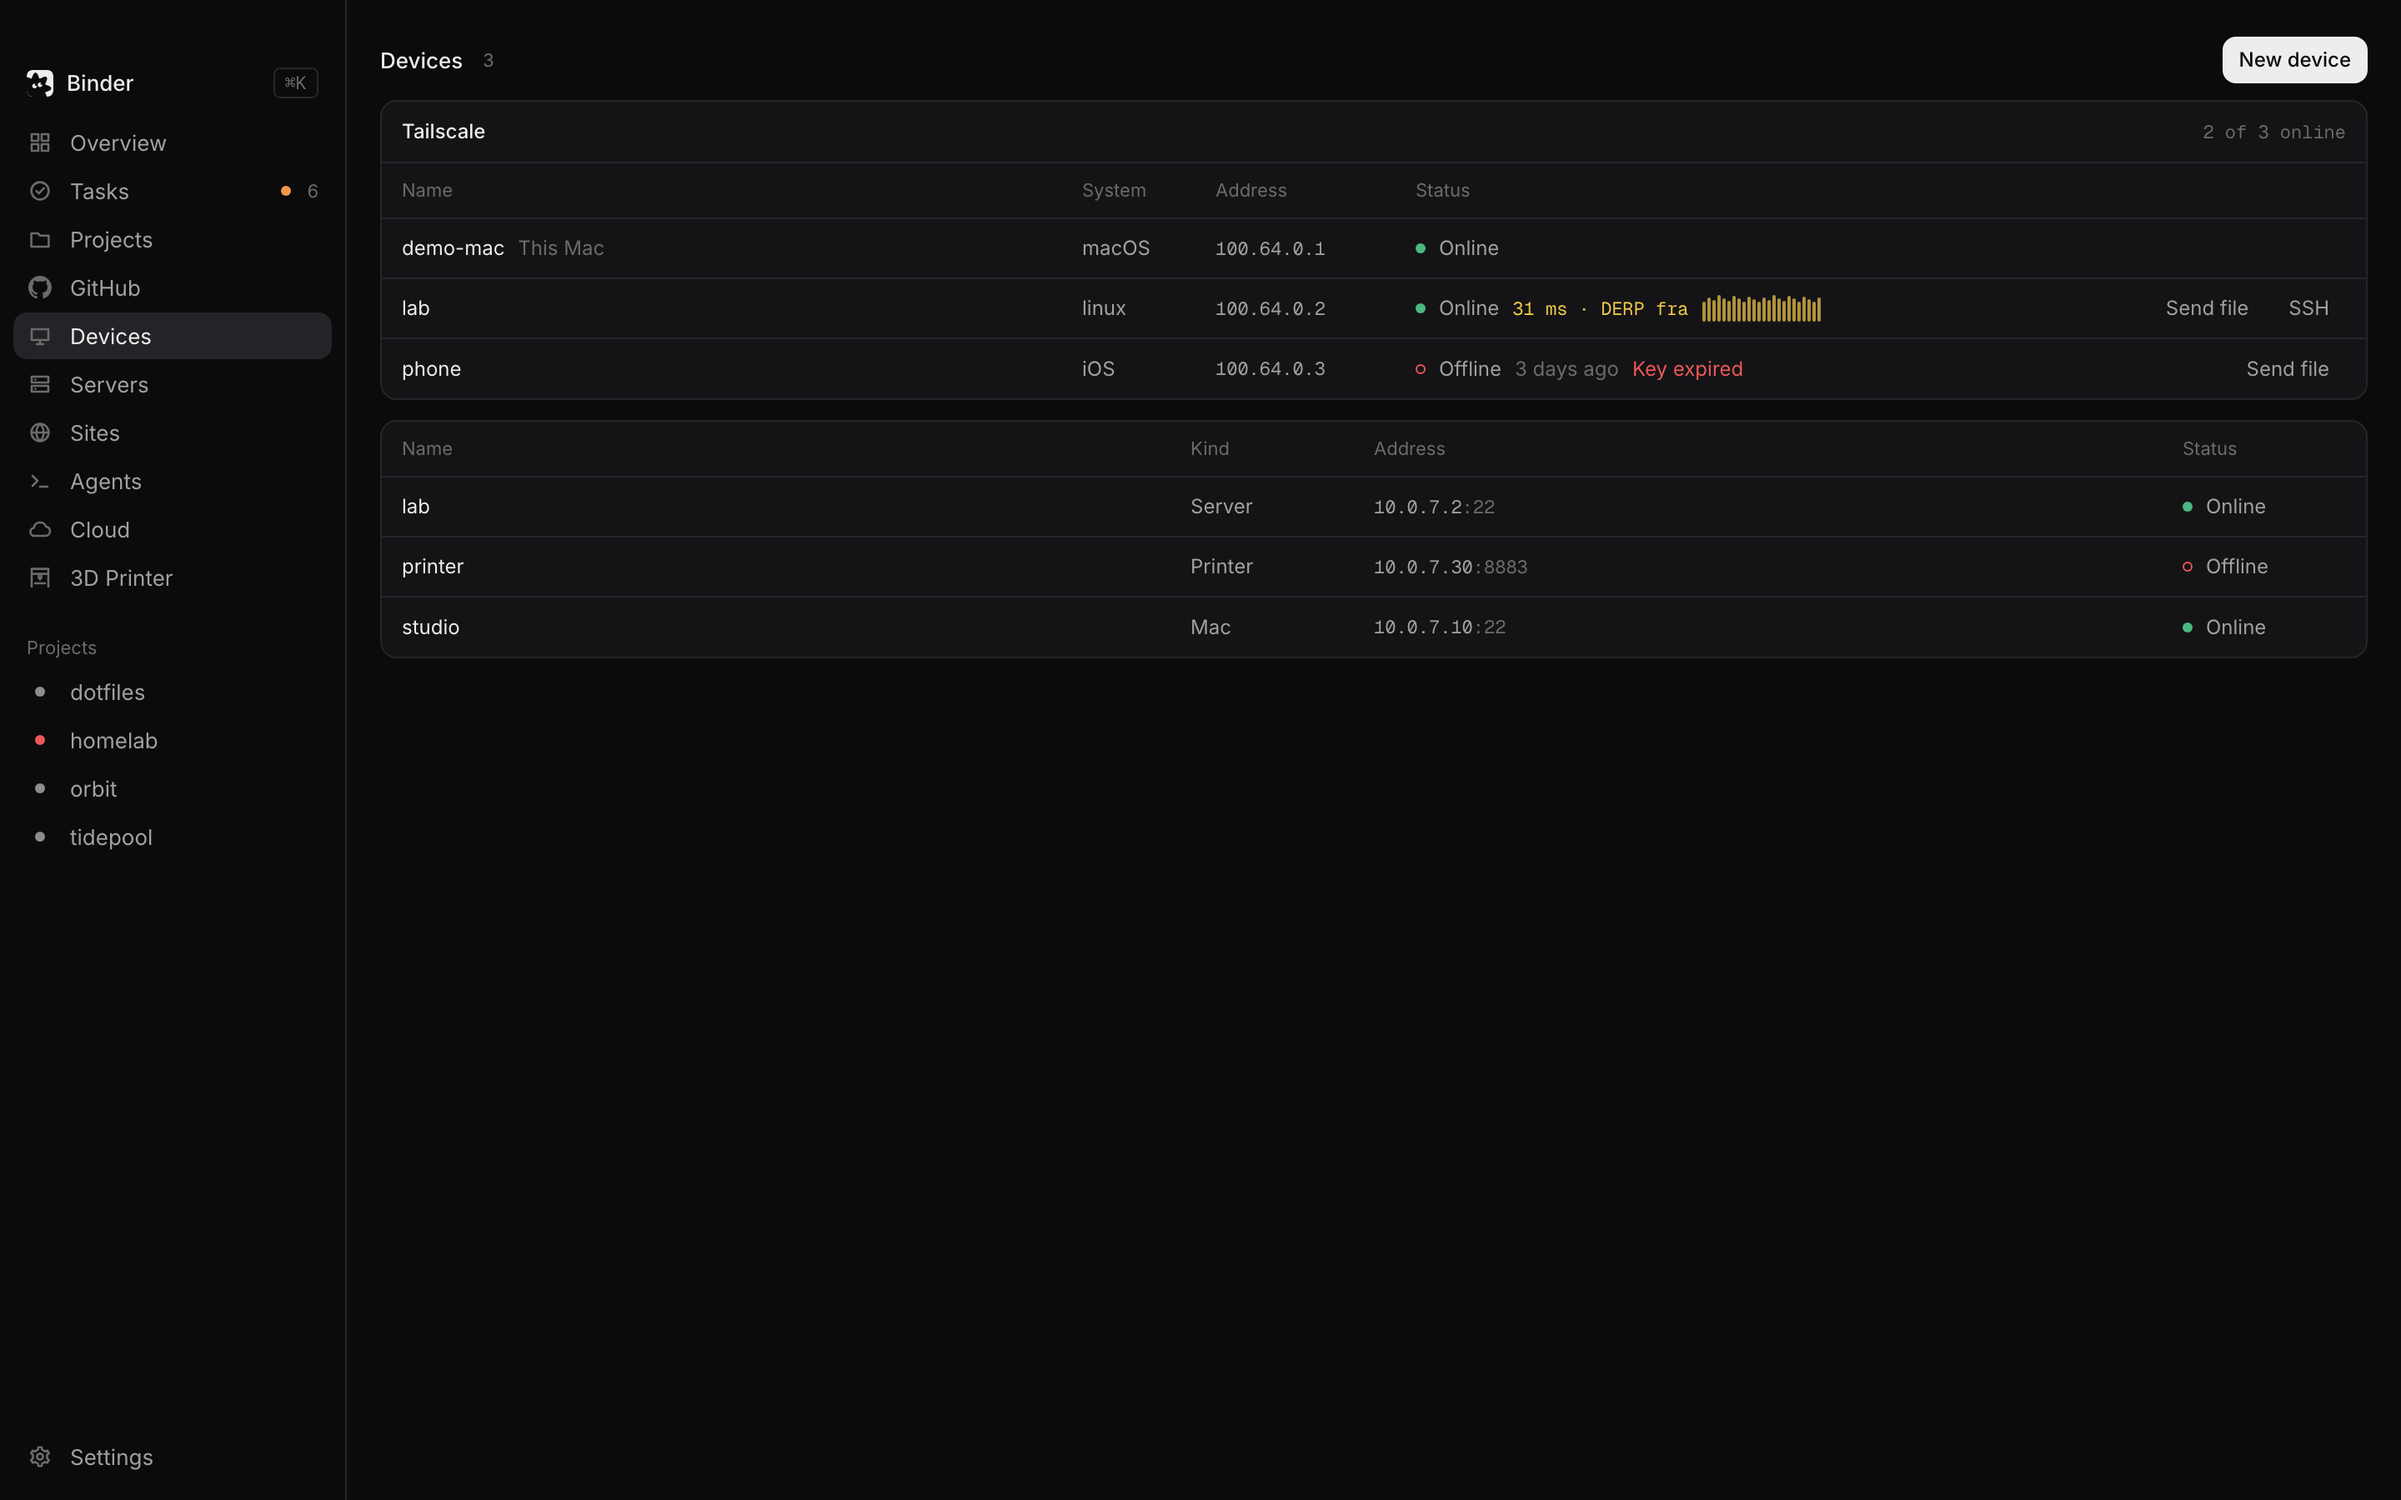
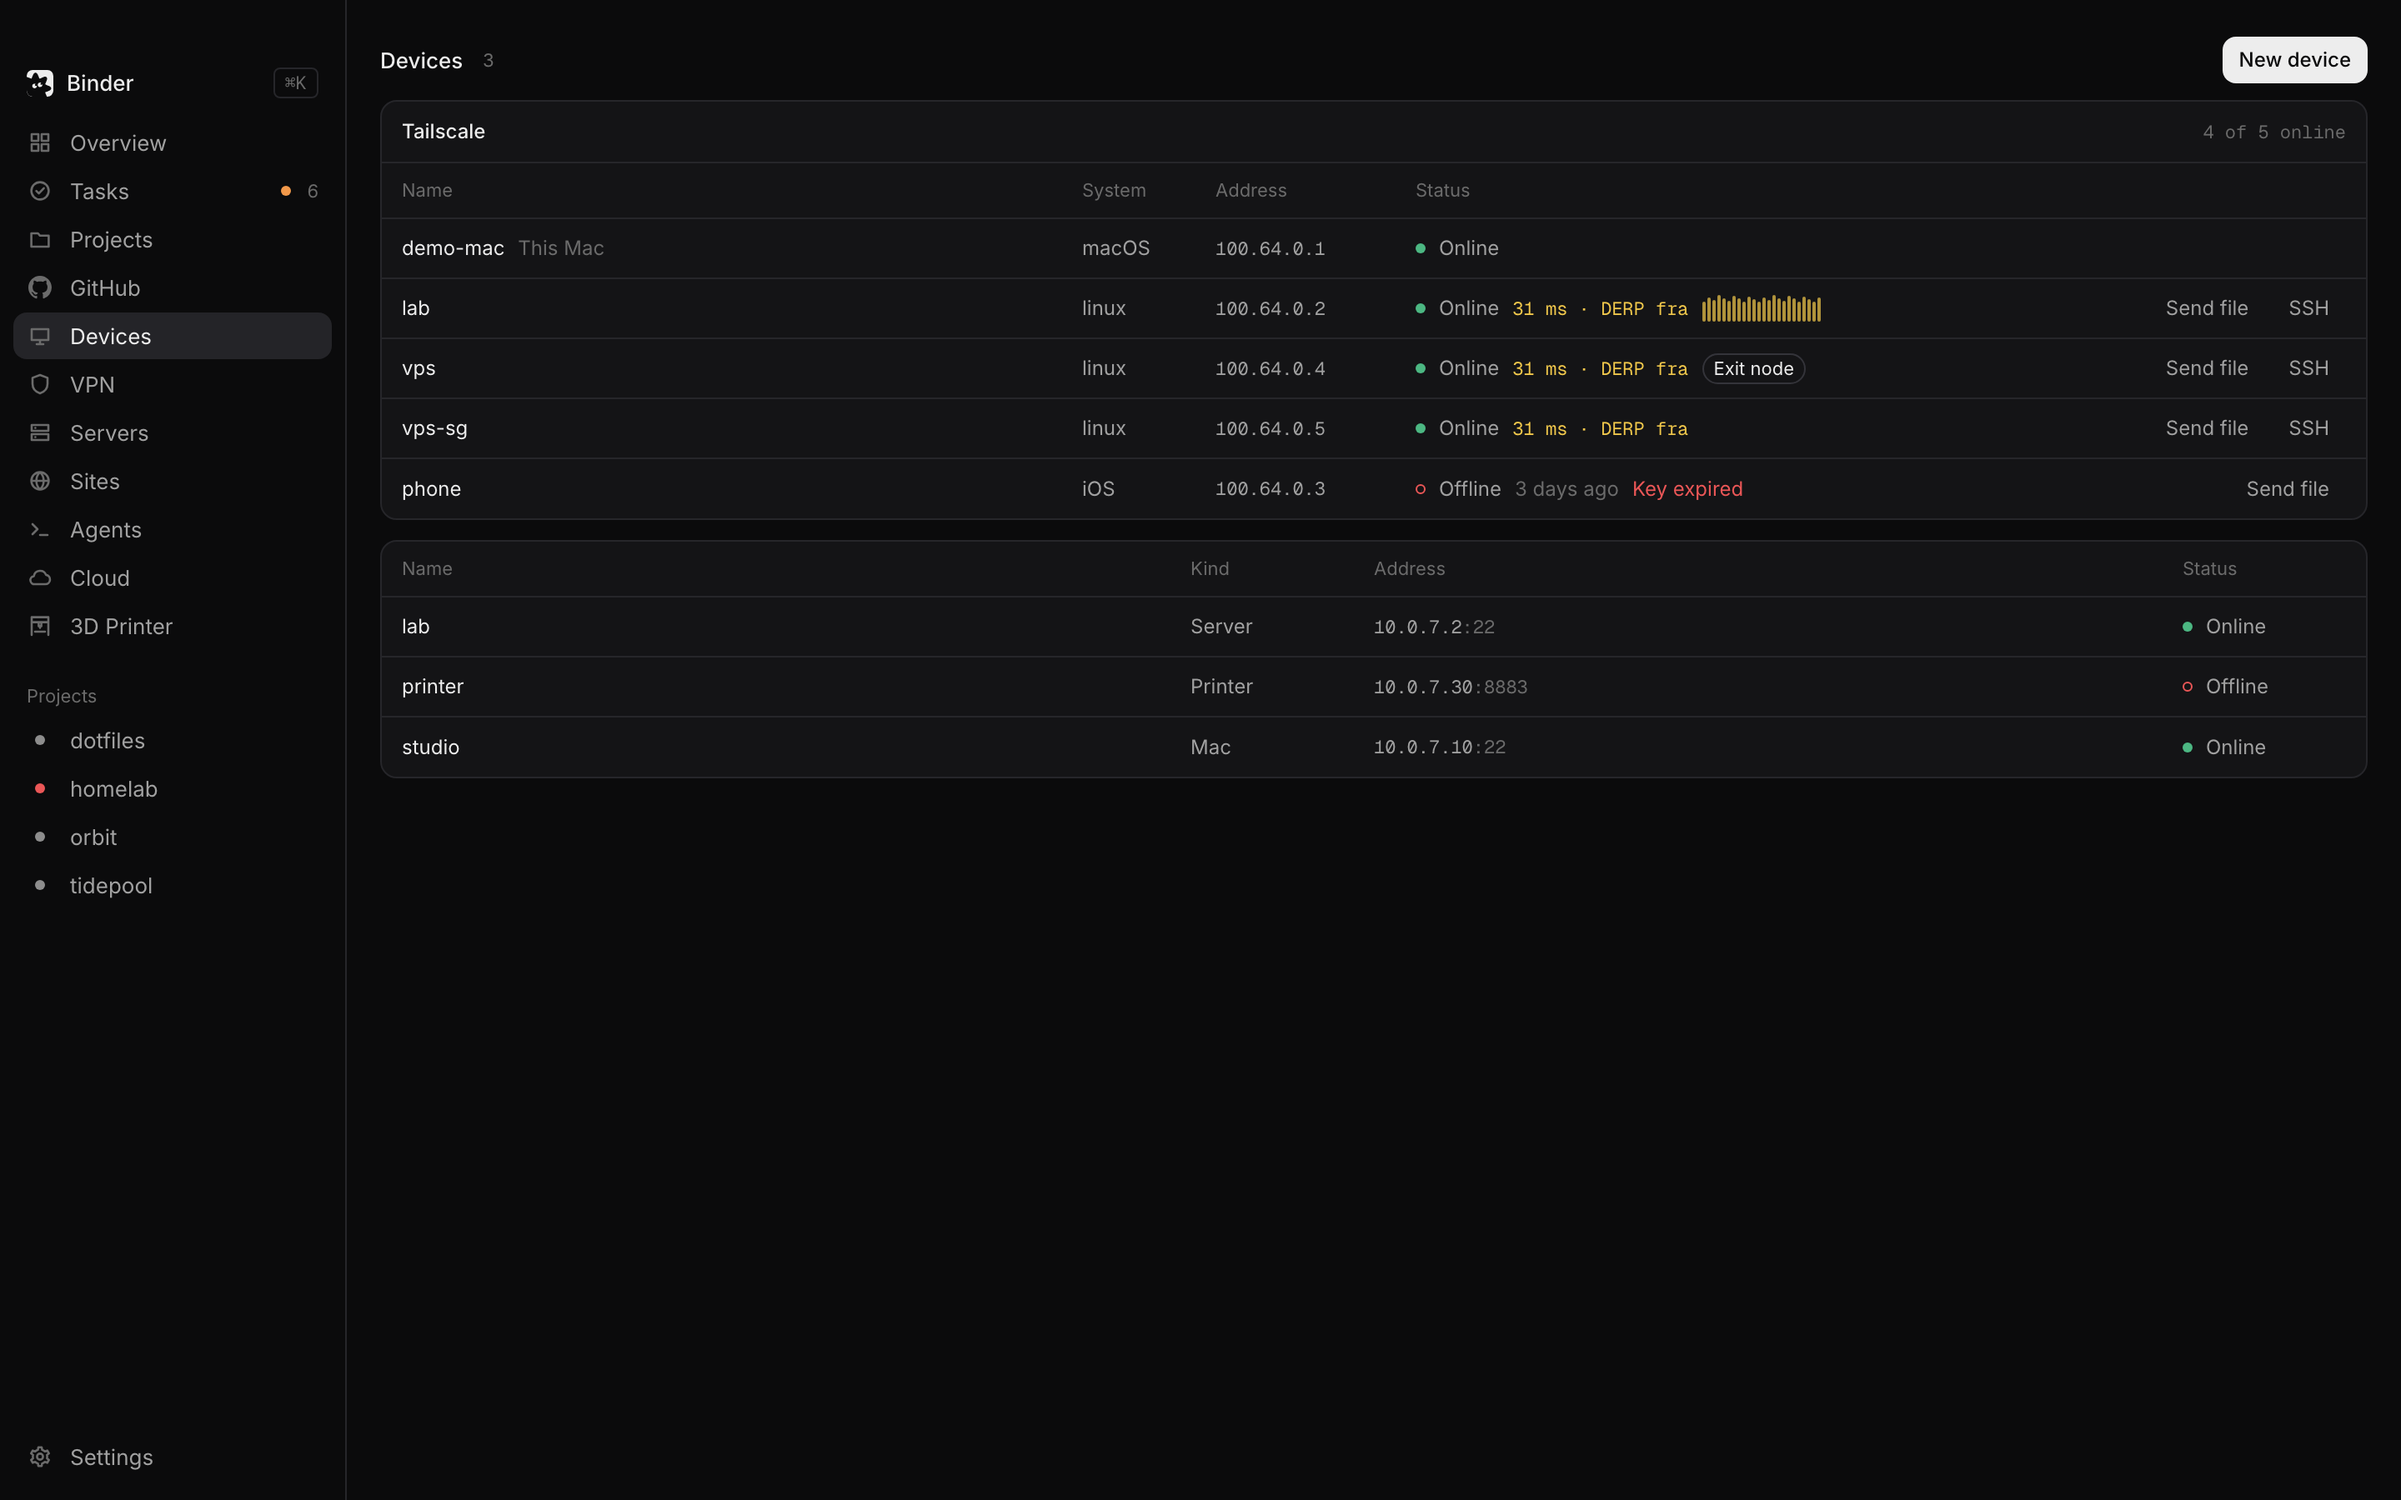
site: 3.11.0 and the VPN

diff --git a/site/index.html b/site/index.html
@@ -44,14 +44,14 @@ a:focus-visible{outline:1px solid #a1a1a1;outline-offset:3px;border-radius:8px}
 </header>
 
 <section id="top" style="position: relative; max-width: 1200px; margin: 0 auto; padding: 72px 20px 0; display: flex; flex-direction: column; align-items: center; gap: 24px; text-align: center;">
-<a href="https://github.com/Kungie/binder/releases/tag/v3.9.0" style="display: inline-flex; align-items: center; gap: 8px; height: 28px; padding: 0 12px; border-radius: 999px; border: 1px solid #26262a; background: #141416; font-size: 12px; color: #a1a1a1;"><span style="width: 6px; height: 6px; border-radius: 999px; background: #8b7cf6; display: inline-block;"></span>3.9 is out: switch servers from the Servers header</a>
+<a href="https://github.com/Kungie/binder/releases/tag/v3.11.0" style="display: inline-flex; align-items: center; gap: 8px; height: 28px; padding: 0 12px; border-radius: 999px; border: 1px solid #26262a; background: #141416; font-size: 12px; color: #a1a1a1;"><span style="width: 6px; height: 6px; border-radius: 999px; background: #8b7cf6; display: inline-block;"></span>3.11 is out: a VPN through your own exit nodes</a>
 <h1 class="hero-h" style="margin: 0; max-width: 880px; font-size: 76px; line-height: 76px; font-weight: 500; letter-spacing: -0.035em; text-wrap: balance;">Your whole workshop, in one quiet window.</h1>
-<p style="margin: 0; max-width: 600px; font-size: 17px; line-height: 26px; color: #a1a1a1; text-wrap: balance;">Tasks for you and a Claude Code agent, your GitHub repos and pull requests, your servers and the sites on them, agent terminals, your tailnet, a file manager and the 3D printer. Mostly black and white, keyboard first, built for one person.</p>
+<p style="margin: 0; max-width: 600px; font-size: 17px; line-height: 26px; color: #a1a1a1; text-wrap: balance;">Tasks for you and a Claude Code agent, your GitHub repos and pull requests, your servers and the sites on them, agent terminals, your tailnet and a VPN through it, a file manager and the 3D printer. Mostly black and white, keyboard first, built for one person.</p>
 <div style="display: flex; gap: 10px; flex-wrap: wrap; justify-content: center; padding-top: 8px;">
 <a href="https://github.com/Kungie/binder/releases/latest/download/Binder.dmg" style="display: inline-flex; align-items: center; gap: 8px; height: 44px; padding: 0 18px; border-radius: 10px; background: #ededed; color: #0b0b0c; font-weight: 500; font-size: 14px;"><svg width="14" height="14" viewBox="0 0 14 14" fill="none" stroke="currentColor" stroke-width="1.5" stroke-linecap="round" stroke-linejoin="round" aria-hidden="true"><path d="M7 1.5v8M3.5 6.5L7 10l3.5-3.5M2 12.5h10"></path></svg>Download for Mac</a>
 <a href="https://github.com/Kungie/binder" style="display: inline-flex; align-items: center; gap: 8px; height: 44px; padding: 0 18px; border-radius: 10px; border: 1px solid #34343a; color: #ededed; font-size: 14px;">View on GitHub</a>
 </div>
-<p style="margin: 0; font-family: 'Geist Mono', ui-monospace, monospace; font-size: 12px; color: #8a8a8a;">v3.9.0 · macOS · Apple silicon · AGPL-3.0</p>
+<p style="margin: 0; font-family: 'Geist Mono', ui-monospace, monospace; font-size: 12px; color: #8a8a8a;">v3.11.0 · macOS · Apple silicon · AGPL-3.0</p>
 
 <div style="position: relative; width: 100%; margin-top: 48px;">
 <img src="assets/mascot.svg" alt="" aria-hidden="true" class="hide-sm" style="position: absolute; left: -150px; bottom: -2px; width: 300px; z-index: 0;">
@@ -74,7 +74,7 @@ a:focus-visible{outline:1px solid #a1a1a1;outline-offset:3px;border-radius:8px}
 <section id="features" style="max-width: 1200px; margin: 0 auto; padding: 140px 20px 0; display: flex; flex-direction: column; gap: 40px;">
 <div style="display: flex; flex-direction: column; gap: 12px; max-width: 640px;">
 <p style="margin: 0; font-family: 'Geist Mono', ui-monospace, monospace; font-size: 12px; color: #8a8a8a;">What it does</p>
-<h2 class="big-h" style="margin: 0; font-size: 44px; line-height: 48px; font-weight: 500; letter-spacing: -0.03em; text-wrap: balance;">Nine screens for the things you keep checking.</h2>
+<h2 class="big-h" style="margin: 0; font-size: 44px; line-height: 48px; font-weight: 500; letter-spacing: -0.03em; text-wrap: balance;">One screen for each thing you keep checking.</h2>
 </div>
 <div style="display: grid; grid-template-columns: repeat(auto-fit, minmax(300px, 1fr)); gap: 12px;">
 
@@ -122,8 +122,8 @@ a:focus-visible{outline:1px solid #a1a1a1;outline-offset:3px;border-radius:8px}
 
 <article style="display: flex; flex-direction: column; gap: 10px; padding: 20px; border-radius: 10px; border: 1px solid #26262a; background: #141416;">
 <svg width="16" height="16" viewBox="0 0 16 16" fill="none" stroke="#ededed" stroke-width="1.3" stroke-linecap="round" stroke-linejoin="round" aria-hidden="true"><rect x="2" y="3" width="12" height="8" rx="1"></rect><path d="M6 13.5h4M8 11v2.5"></path></svg>
-<h3 style="margin: 0; font-size: 15px; font-weight: 500;">Devices</h3>
-<p style="margin: 0; font-size: 13px; line-height: 20px; color: #a1a1a1;">Your tailnet from the Tailscale app: who is online, the route and ping, keys about to expire, Taildrop and an SSH shell. Plus any machine you add yourself.</p>
+<h3 style="margin: 0; font-size: 15px; font-weight: 500;">Devices and VPN</h3>
+<p style="margin: 0; font-size: 13px; line-height: 20px; color: #a1a1a1;">Your tailnet from the Tailscale app: who is online, the route and ping, keys about to expire, Taildrop and an SSH shell. Your own exit nodes become a VPN with one switch.</p>
 <p style="margin: 0; font-family: 'Geist Mono', ui-monospace, monospace; font-size: 11px; color: #8a8a8a;">31 ms · DERP fra</p>
 </article>
 
@@ -175,6 +175,17 @@ a:focus-visible{outline:1px solid #a1a1a1;outline-offset:3px;border-radius:8px}
 <figure style="flex: 2 1 560px; min-width: 0; margin: 0; border-radius: 14px; border: 1px solid #34343a; background: #141416; padding: 6px;">
 <img loading="lazy" width="2880" height="1800" src="assets/shots/devices.png" alt="The Devices screen with the tailnet: each device's system, address, status, ping and route" style="display: block; width: 100%; height: auto; border-radius: 10px;">
 </figure>
+</section>
+
+<section style="max-width: 1200px; margin: 0 auto; padding: 120px 20px 0; display: flex; flex-wrap: wrap-reverse; gap: 48px; align-items: center;">
+<figure style="flex: 2 1 560px; min-width: 0; margin: 0; border-radius: 14px; border: 1px solid #34343a; background: #141416; padding: 6px;">
+<img loading="lazy" width="2880" height="1800" src="assets/shots/vpn.png" alt="The VPN screen: a dotted globe with the route to the exit node, the switch, the regions and statistics" style="display: block; width: 100%; height: auto; border-radius: 10px;">
+</figure>
+<div style="flex: 1 1 320px; min-width: 0; display: flex; flex-direction: column; gap: 16px;">
+<p style="margin: 0; font-family: 'Geist Mono', ui-monospace, monospace; font-size: 12px; color: #8a8a8a;">VPN</p>
+<h2 class="big-h" style="margin: 0; font-size: 36px; line-height: 40px; font-weight: 500; letter-spacing: -0.03em; text-wrap: balance;">A VPN made of your own servers.</h2>
+<p style="margin: 0; font-size: 15px; line-height: 24px; color: #a1a1a1;">Every Tailscale exit node you run is a region. One switch sends your Mac's traffic through it, and the globe shows the way it goes. Ping, live speed and totals sit beside it. Rent a server in another country and the list grows.</p>
+</div>
 </section>
 
 <section id="principles" style="max-width: 1200px; margin: 0 auto; padding: 140px 20px 0; display: grid; grid-template-columns: repeat(auto-fit, minmax(300px, 1fr)); gap: 40px 48px;">
